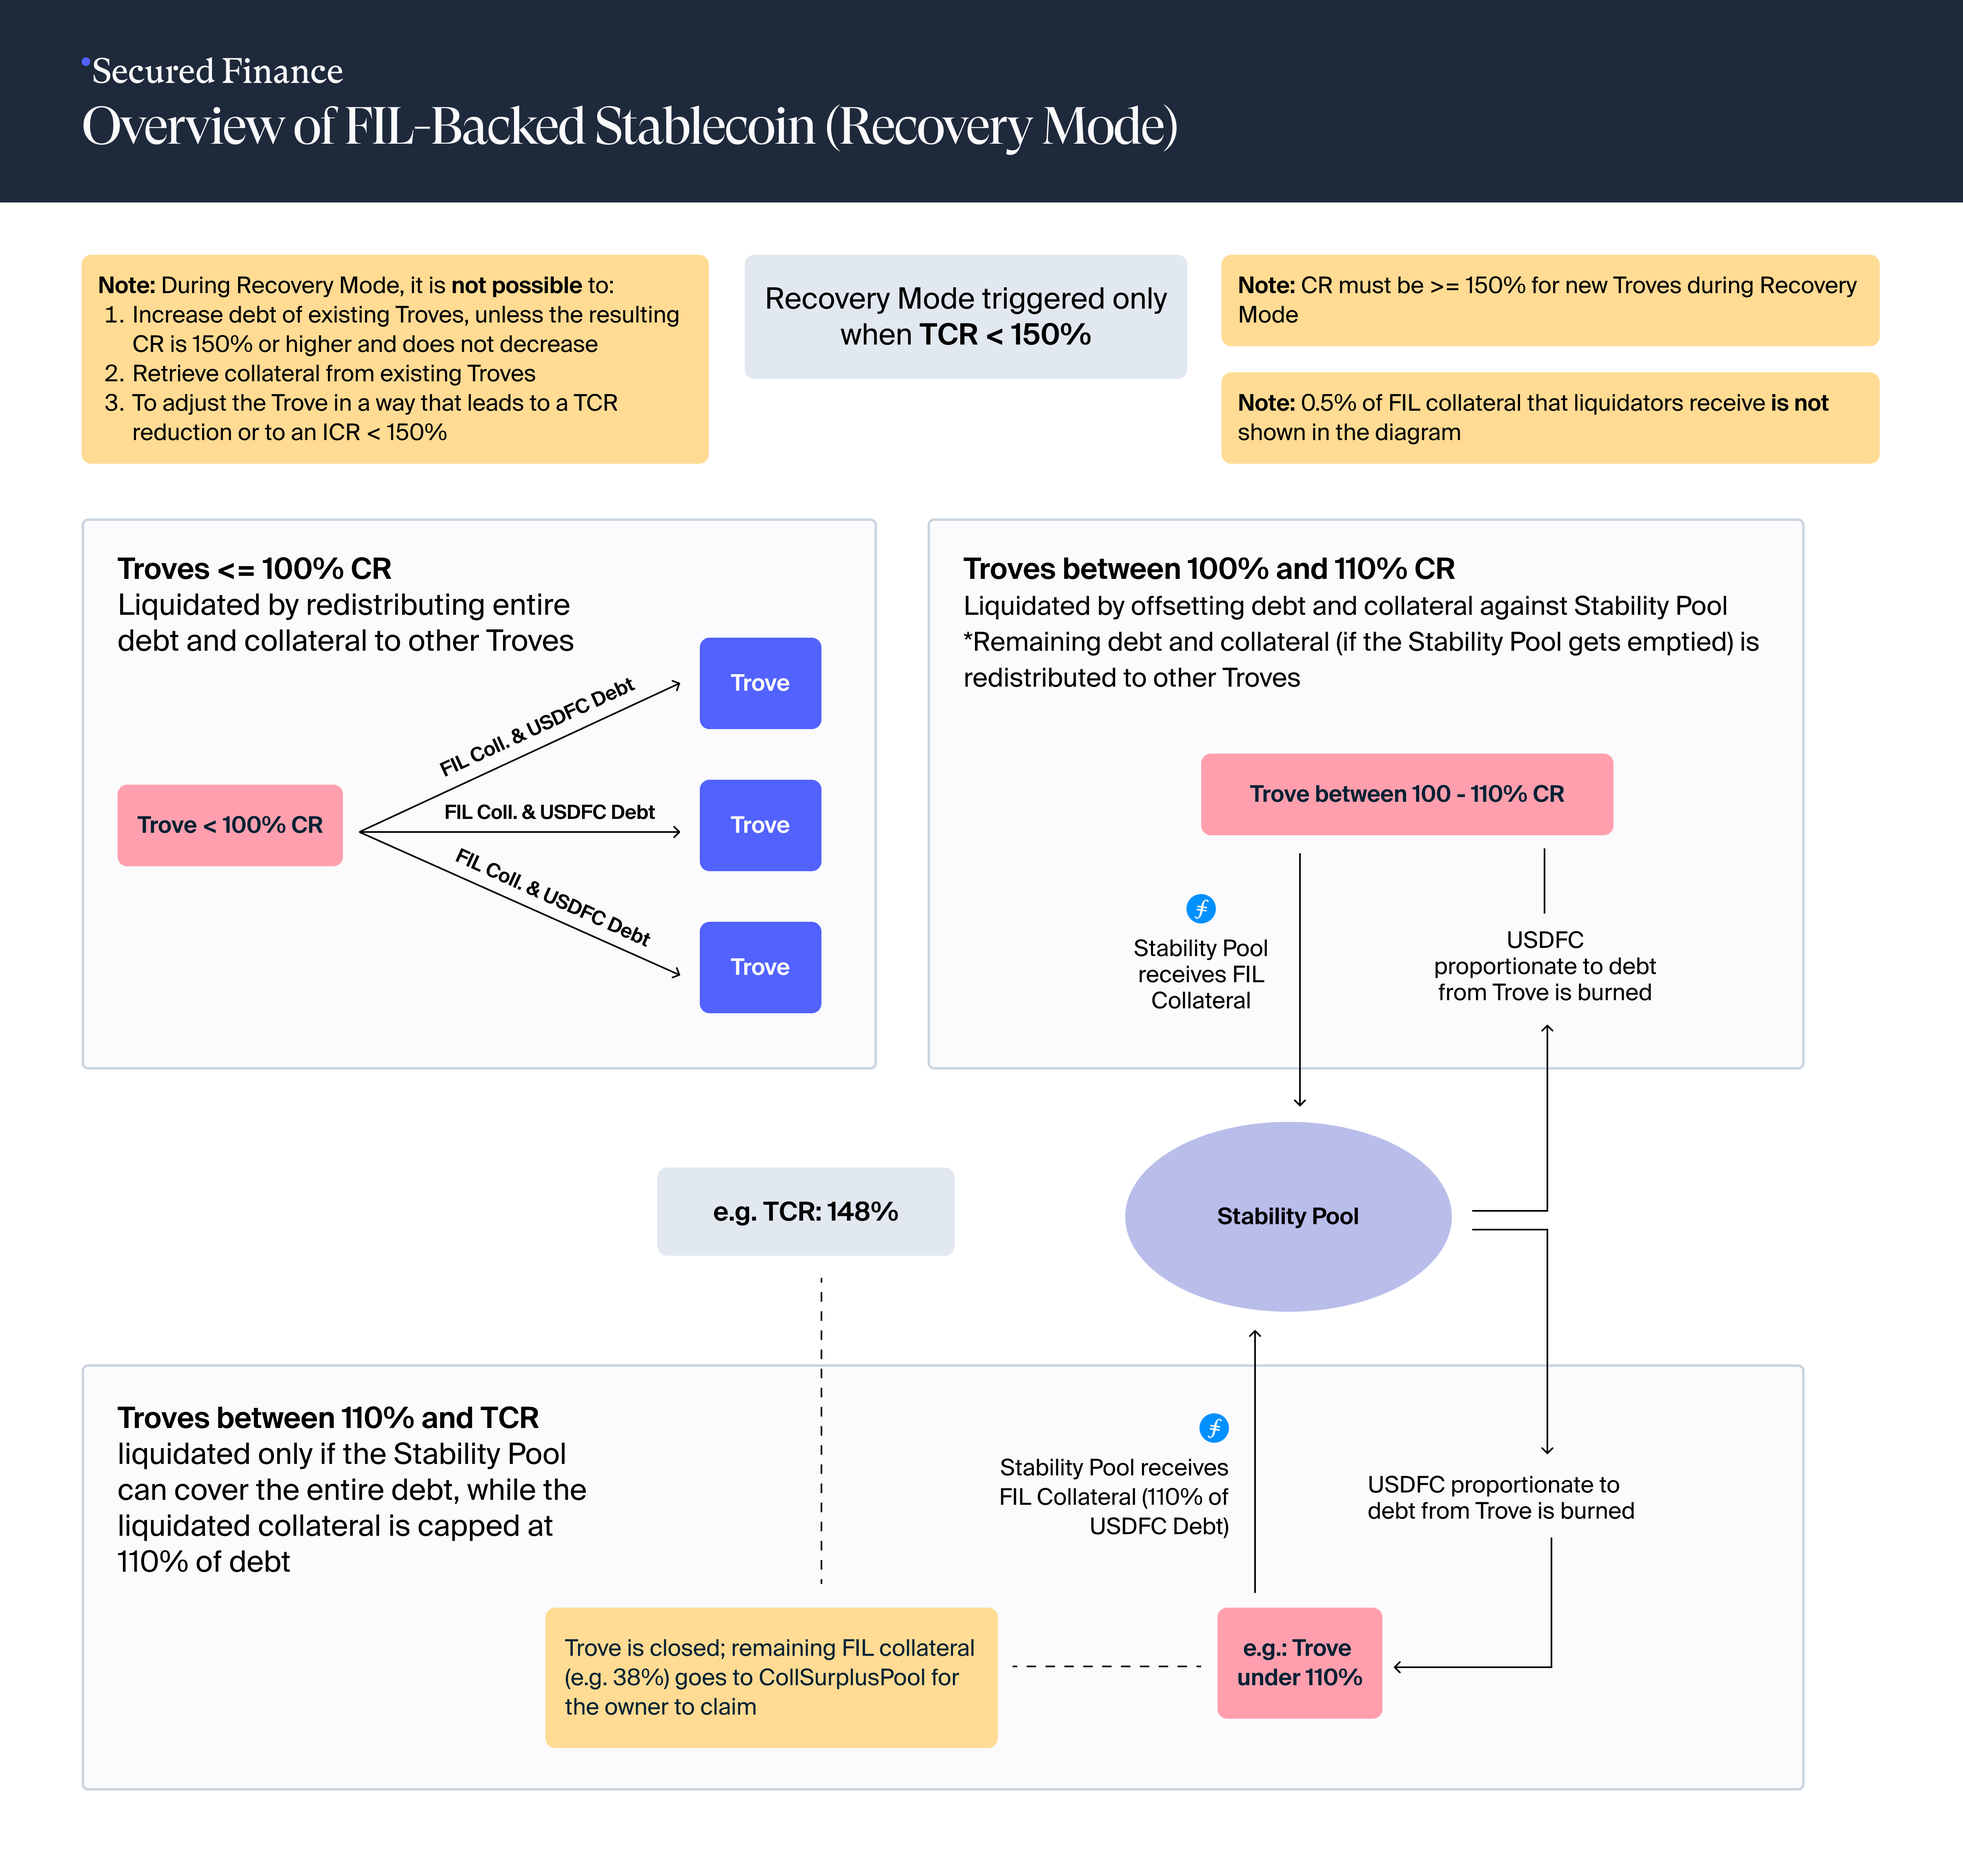
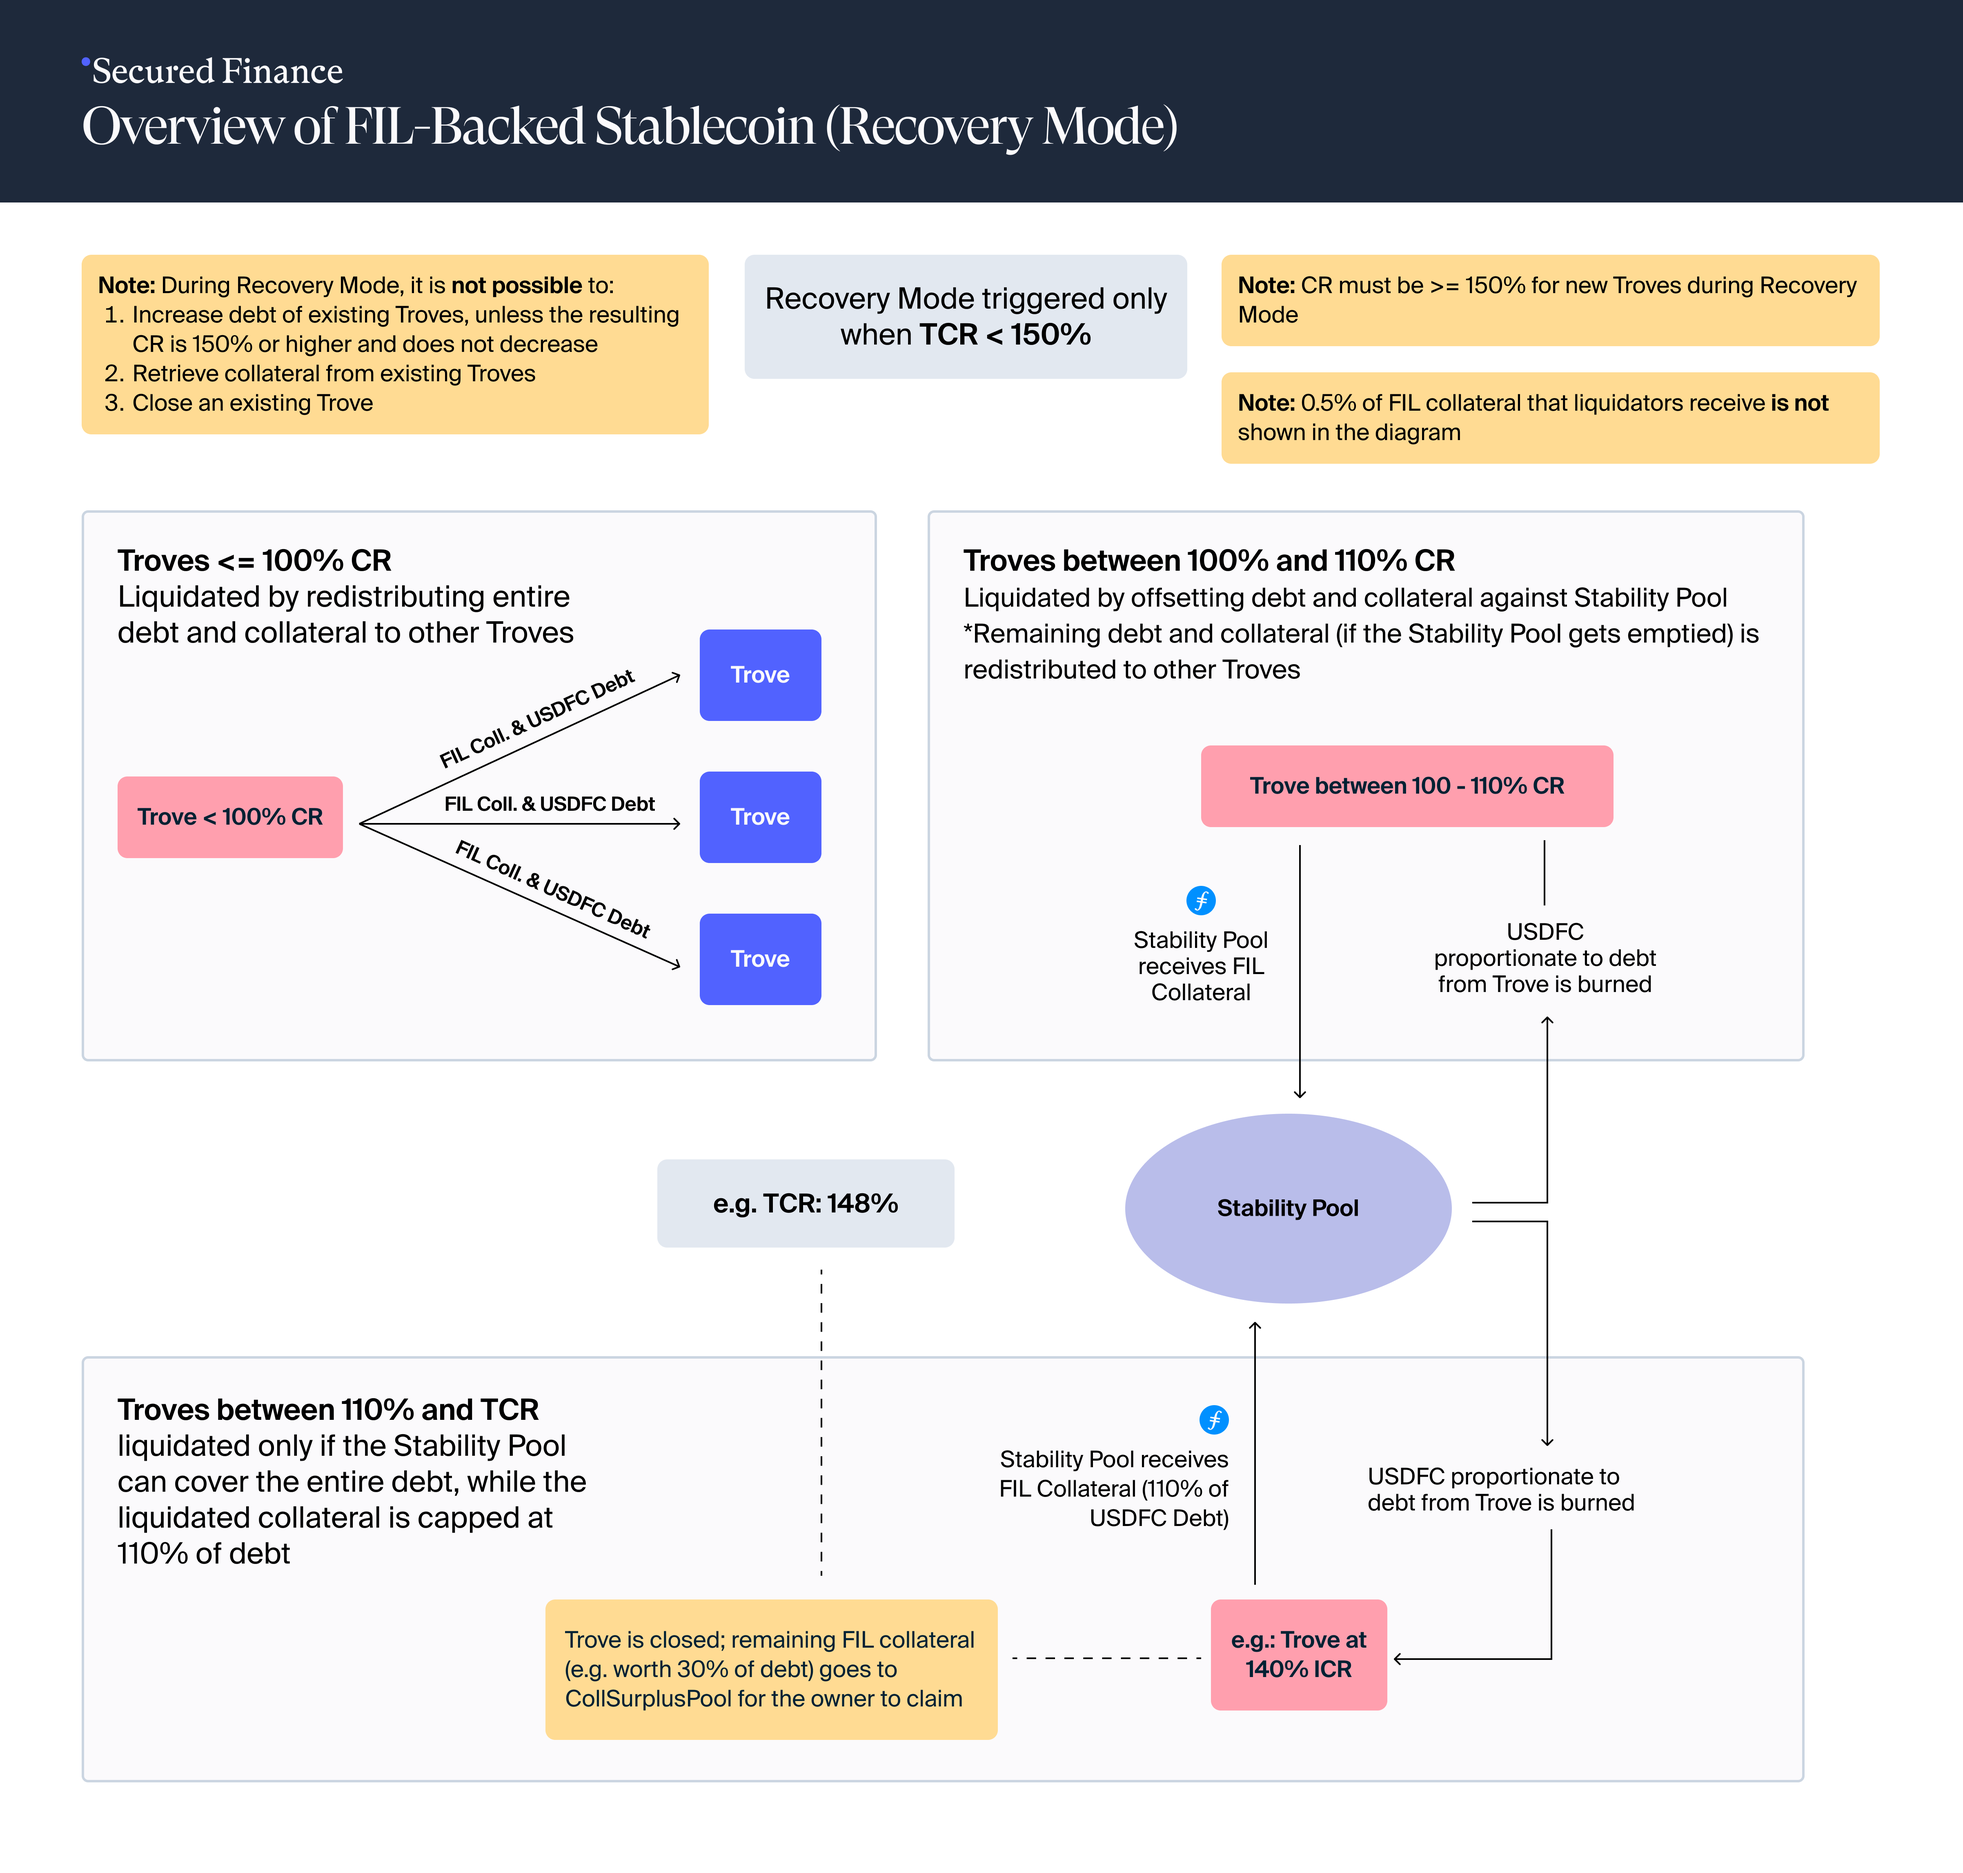
docs: correct Recovery Mode restrictions and example in architecture diagrams

diff --git a/usdfc-stablecoin/core-mechanics/system-overview.md b/usdfc-stablecoin/core-mechanics/system-overview.md
@@ -21,11 +21,11 @@ The causal chain: the oracle prices the collateral → ratios determine which Tr
 
 ### Normal Mode
 
-<figure><img src="../../.gitbook/assets/usdfc-architecture-normal-mode.png" alt="Flow diagram of Normal Mode: a user connects a wallet, deposits FIL into a Trove at a minimum 110% collateral ratio with 0% interest, and mints USDFC; 20 USDFC is set aside as the Liquidation Reserve, which is not repaid on close; the one-off minting fee (0.5% to 5% in USDFC) and redemption fees (in FIL) go to the Fee Reserve for future distribution; USDFC can be deposited into the Stability Pool; a Trove under 110% is liquidated with its FIL going to Stability Pool depositors and 0.5% plus 20 USDFC to the liquidator; a redeemer exchanges USDFC for FIL at face value, before the redemption fee, from a Trove above 110%; minimum net debt is 200 USDFC excluding the reserve"><figcaption><p>USDFC protocol architecture in Normal Mode</p></figcaption></figure>
+<figure><img src="../../.gitbook/assets/usdfc-architecture-normal-mode.png" alt="Flow diagram of Normal Mode: a user connects a wallet, deposits FIL into a Trove at a minimum 110% collateral ratio with 0% interest, and mints USDFC; 20 USDFC is set aside as the Liquidation Reserve, which is not repaid on close; the one-off minting fee (0.5% to 5% in USDFC) and redemption fees (in FIL) go to the Fee Reserve for future distribution; USDFC can be deposited into the Stability Pool; a Trove under 110% is liquidated with its FIL going to Stability Pool depositors and 0.5% plus 20 USDFC to the liquidator; a redeemer exchanges USDFC for FIL at face value, before the redemption fee, from a Trove above 110%; minimum net debt is 200 USDFC excluding the reserve; the liquidation shown assumes sufficient Stability Pool deposits, otherwise remaining debt and collateral are redistributed to other Troves"><figcaption><p>USDFC protocol architecture in Normal Mode</p></figcaption></figure>
 
 ### Recovery Mode
 
-<figure><img src="../../.gitbook/assets/usdfc-architecture-recovery-mode.png" alt="Flow diagram of Recovery Mode, triggered when TCR is below 150%: Troves at or below 100% are liquidated by redistributing their debt and collateral to other Troves; Troves between 100% and 110% are offset against the Stability Pool with any remainder redistributed; Troves between 110% and the TCR are liquidated only if the Stability Pool can cover the entire debt, with liquidated collateral capped at 110% of debt, the Trove closed, and the remaining collateral sent to CollSurplusPool for the owner to claim; new Troves need a ratio of at least 150%, collateral withdrawals are blocked, and debt increases are allowed only if the resulting ratio is at least 150% and does not decrease; the 0.5% liquidator share is not shown"><figcaption><p>USDFC protocol architecture in Recovery Mode</p></figcaption></figure>
+<figure><img src="../../.gitbook/assets/usdfc-architecture-recovery-mode.png" alt="Flow diagram of Recovery Mode, triggered when TCR is below 150%: Troves at or below 100% are liquidated by redistributing their debt and collateral to other Troves; Troves between 100% and 110% are offset against the Stability Pool with any remainder redistributed; Troves between 110% and the TCR (for example a Trove at 140% when the TCR is 148%) are liquidated only if the Stability Pool can cover the entire debt, with liquidated collateral capped at 110% of debt, the Trove closed, and the remaining collateral (worth 30% of debt in the example) sent to CollSurplusPool for the owner to claim; new Troves need a ratio of at least 150%, and it is not possible to withdraw collateral, close a Trove, or increase debt unless the resulting ratio is at least 150% and does not decrease; the 0.5% liquidator share is not shown"><figcaption><p>USDFC protocol architecture in Recovery Mode</p></figcaption></figure>
 
 ## Key parameters
 
